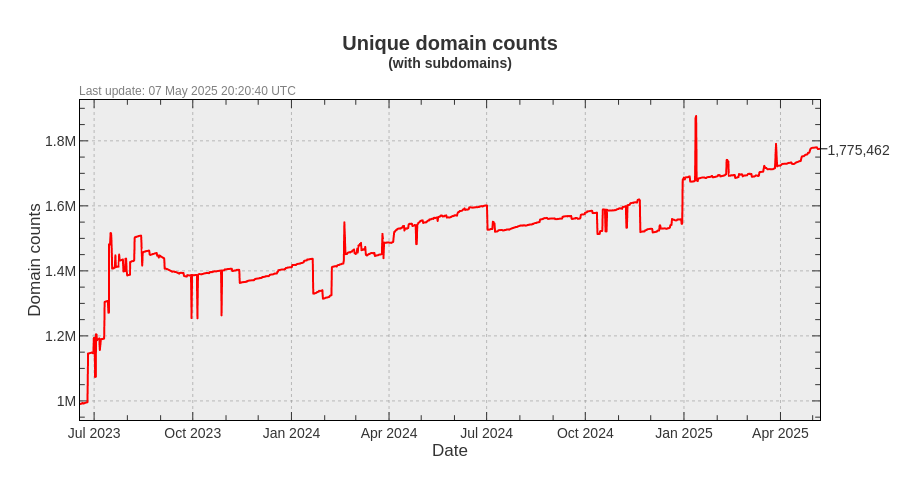
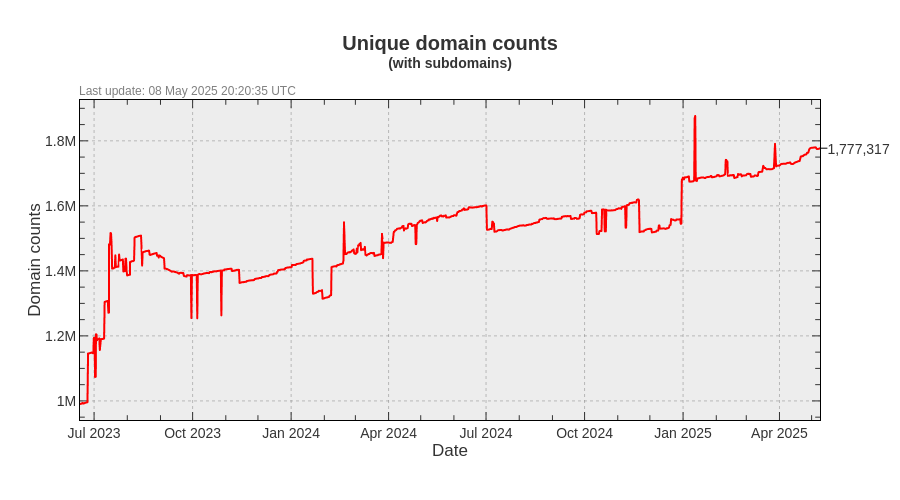
Update pages

diff --git a/README.md b/README.md
@@ -3,23 +3,23 @@ A blocklist file for blocking ads, trackers and malware domains.
 
[1 lines of base64/hex data omitted]
 
-- Unique domains: 1,775,462
-- Without subdomains: 1,159,119
-- Last update: 07 May 2025 20:20:40 UTC
-- Version: 2025.05.07.01
+- Unique domains: 1,777,317
+- Without subdomains: 1,160,449
+- Last update: 08 May 2025 20:20:35 UTC
+- Version: 2025.05.08.01
 
 
 ### Downloads:
 
 | Format             | Domain count      | Download Link |
 |:------------------ | -----------------:|:-------------:|
-| *Adblock Plus*     | 1,159,119 | [Download](https://raw.githubusercontent.com/cenk/bad-hosts/main/bad-hosts-abp) |
-| *Wildcard domains* | 1,159,119 | [Download](https://raw.githubusercontent.com/cenk/bad-hosts/main/bad-hosts-wildcard) |
-| *dnsmasq*          | 1,159,119 | [Download](https://raw.githubusercontent.com/cenk/bad-hosts/main/bad-hosts-dnsmasq) |
-| *Unbound*          | 1,159,119 | [Download](https://raw.githubusercontent.com/cenk/bad-hosts/main/bad-hosts-unbound) |
-| *hosts*            | 1,775,462 | [Download](https://raw.githubusercontent.com/cenk/bad-hosts/main/hosts) |
-| *hosts (ipv6)*     | 1,775,462 | [Download](https://raw.githubusercontent.com/cenk/bad-hosts/main/hosts-ipv6) |
-| *Plain domains*    | 1,775,462 | [Download](https://raw.githubusercontent.com/cenk/bad-hosts/main/bad-hosts-domains) |
+| *Adblock Plus*     | 1,160,449 | [Download](https://raw.githubusercontent.com/cenk/bad-hosts/main/bad-hosts-abp) |
+| *Wildcard domains* | 1,160,449 | [Download](https://raw.githubusercontent.com/cenk/bad-hosts/main/bad-hosts-wildcard) |
+| *dnsmasq*          | 1,160,449 | [Download](https://raw.githubusercontent.com/cenk/bad-hosts/main/bad-hosts-dnsmasq) |
+| *Unbound*          | 1,160,449 | [Download](https://raw.githubusercontent.com/cenk/bad-hosts/main/bad-hosts-unbound) |
+| *hosts*            | 1,777,317 | [Download](https://raw.githubusercontent.com/cenk/bad-hosts/main/hosts) |
+| *hosts (ipv6)*     | 1,777,317 | [Download](https://raw.githubusercontent.com/cenk/bad-hosts/main/hosts-ipv6) |
+| *Plain domains*    | 1,777,317 | [Download](https://raw.githubusercontent.com/cenk/bad-hosts/main/bad-hosts-domains) |
 
 ### Domain count history
 #### With subdomains
